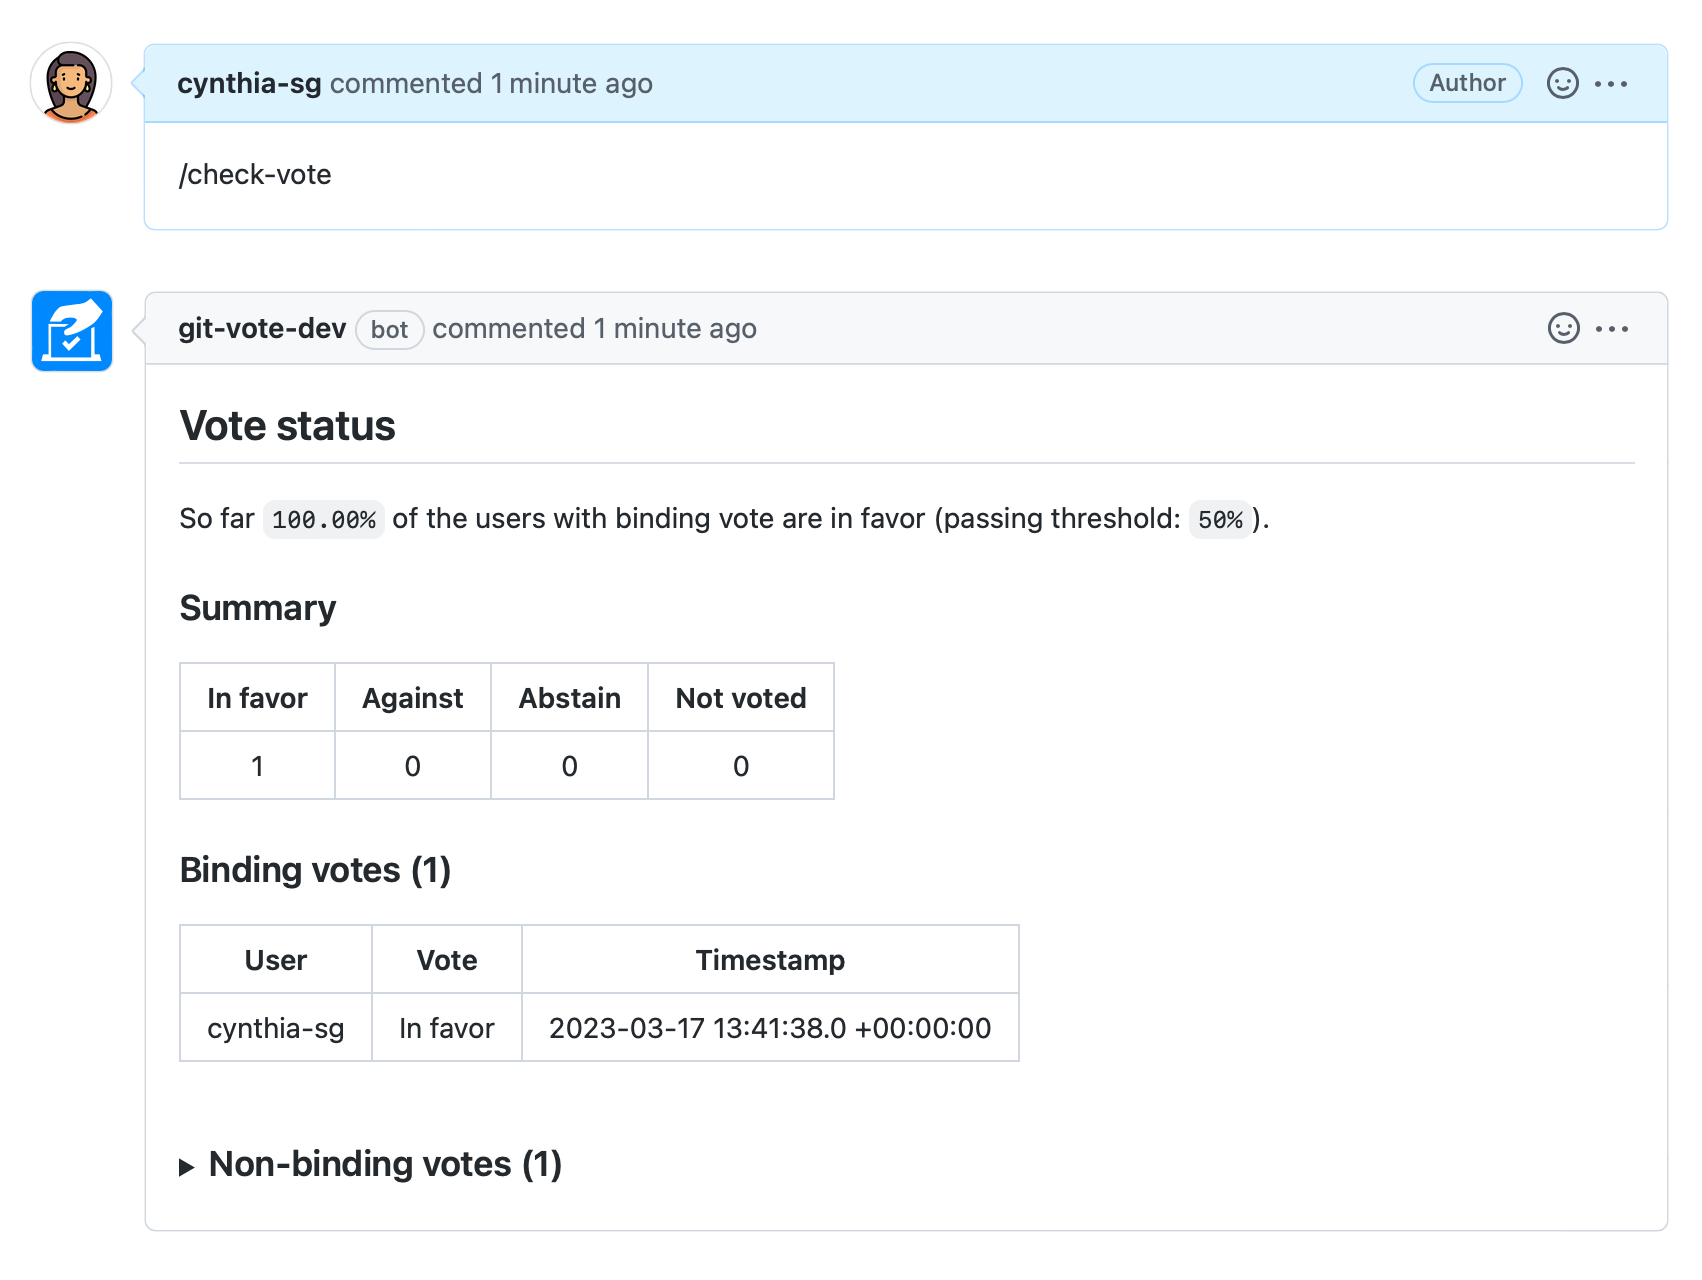
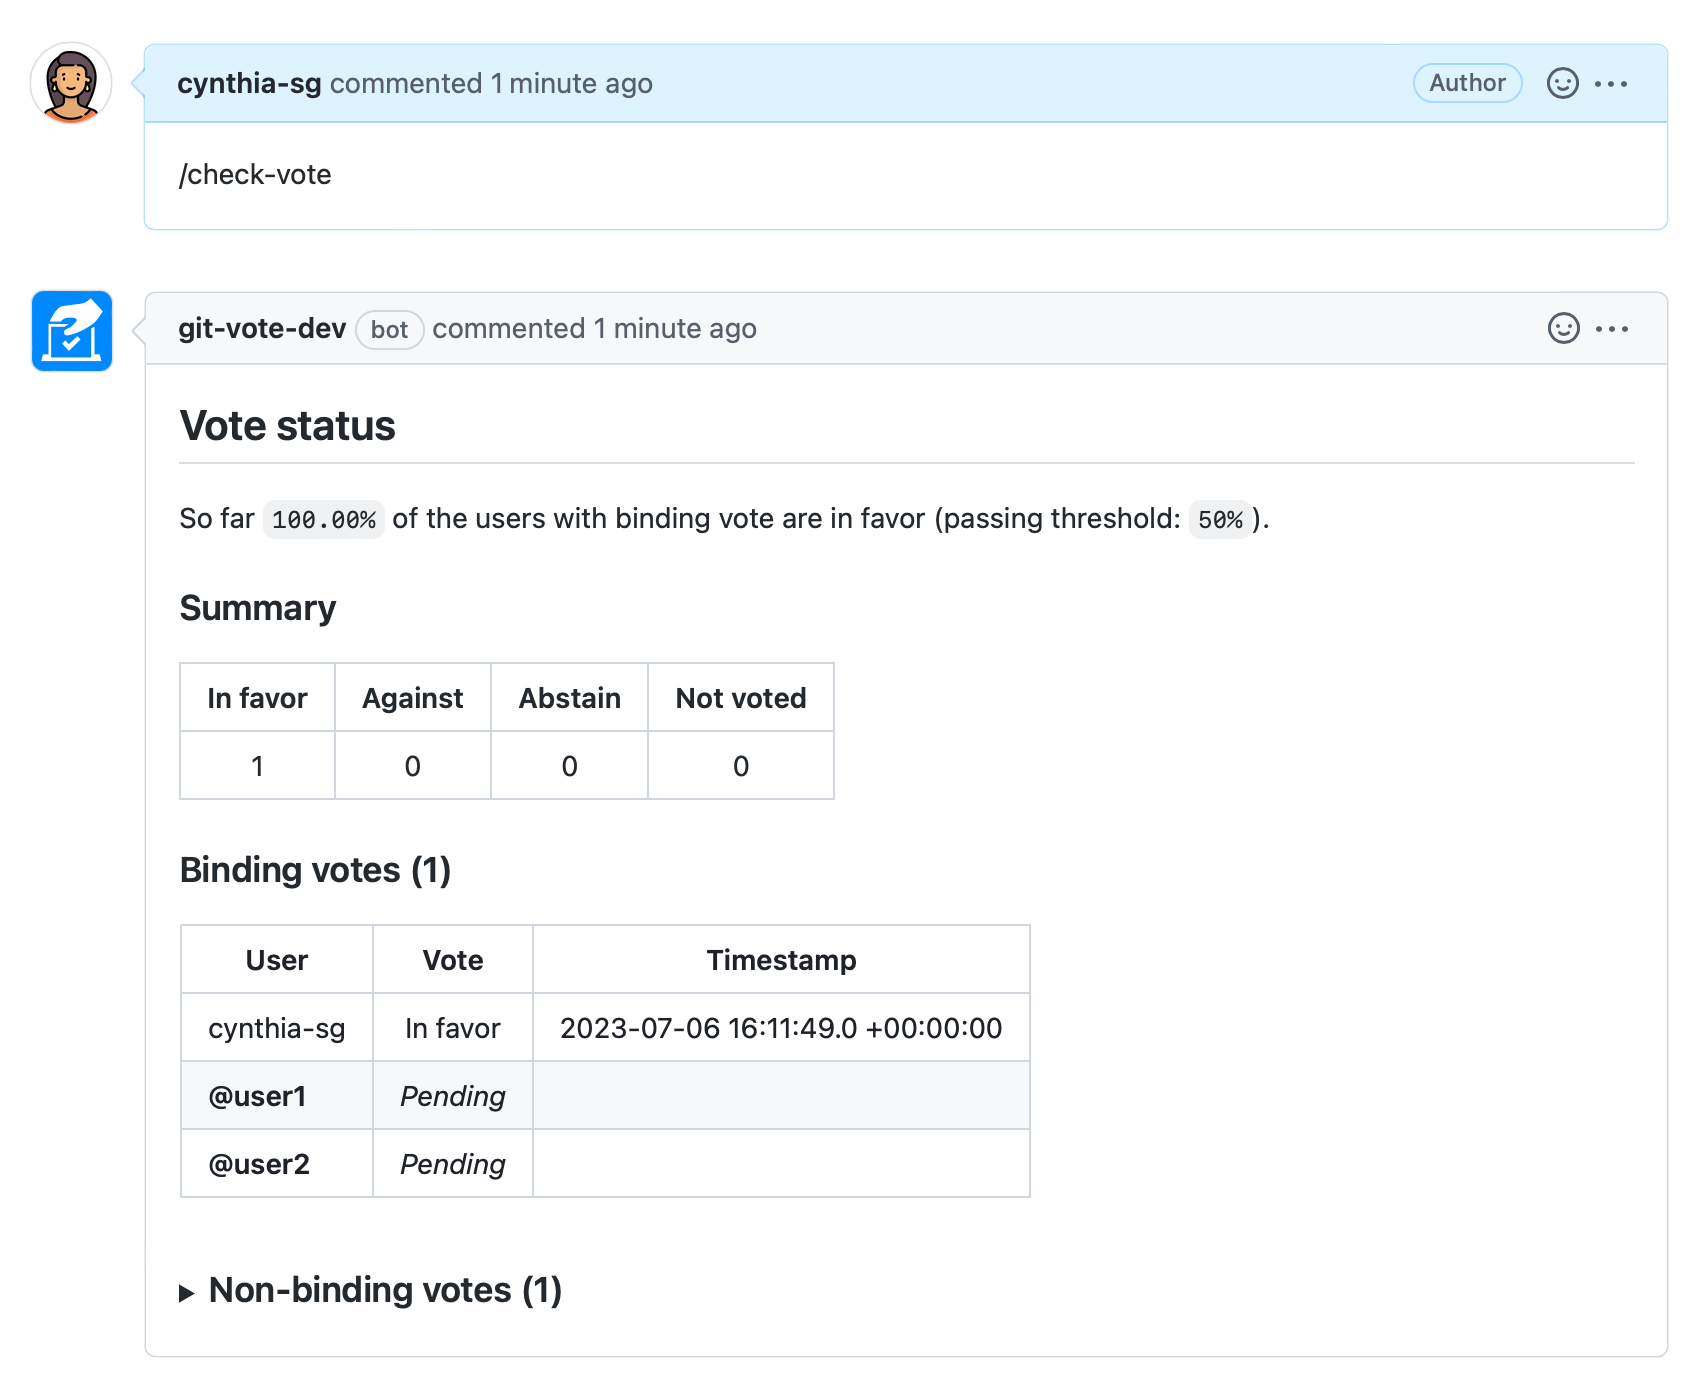
Mention pending voters when checking vote status (#351)
Closes #342
Closes #343

diff --git a/src/results.rs b/src/results.rs
@@ -106,6 +106,7 @@ pub(crate) struct VoteResults {
     pub non_binding: i64,
     pub allowed_voters: i64,
     pub votes: HashMap<UserName, UserVote>,
+    pub pending_voters: Vec<UserName>,
 }
 
 /// User's vote details.
@@ -187,24 +188,25 @@ pub(crate) async fn calculate<'a>(
     if !allowed_voters.is_empty() {
         in_favor_percentage = in_favor as f64 / allowed_voters.len() as f64 * 100.0;
     }
-    let passed = in_favor_percentage >= vote.cfg.pass_threshold;
-    let not_voted = allowed_voters
+    let pending_voters: Vec<UserName> = allowed_voters
         .iter()
         .filter(|user| !votes.contains_key(*user))
-        .count() as i64;
+        .cloned()
+        .collect();
 
     Ok(VoteResults {
-        passed,
+        passed: in_favor_percentage >= vote.cfg.pass_threshold,
         in_favor_percentage,
         pass_threshold: vote.cfg.pass_threshold,
         in_favor,
         against,
         abstain,
-        not_voted,
+        not_voted: pending_voters.len() as i64,
         binding,
         non_binding,
         allowed_voters: allowed_voters.len() as i64,
         votes,
+        pending_voters,
     })
 }
 
@@ -335,6 +337,7 @@ mod tests {
                     )
                 ]),
                 allowed_voters: 1,
+                pending_voters: vec![],
             }
         },
 
@@ -372,6 +375,7 @@ mod tests {
                 non_binding: 0,
                 votes: HashMap::new(),
                 allowed_voters: 1,
+                pending_voters: vec![USER1.to_string()],
             }
         },
 
@@ -455,6 +459,7 @@ mod tests {
                     ),
                 ]),
                 allowed_voters: 4,
+                pending_voters: vec![USER4.to_string()],
             }
         },
 
@@ -525,6 +530,7 @@ mod tests {
                     ),
                 ]),
                 allowed_voters: 4,
+                pending_voters: vec![USER4.to_string()],
             }
         },
     );

diff --git a/src/testutil.rs b/src/testutil.rs
@@ -163,5 +163,6 @@ pub(crate) fn setup_test_vote_results() -> VoteResults {
             },
         )]),
         allowed_voters: 1,
+        pending_voters: vec![],
     }
 }

diff --git a/templates/vote-status.md b/templates/vote-status.md
@@ -8,35 +8,32 @@ So far `{{ "{:.2}"|format(results.in_favor_percentage) }}%` of the users with bi
 | :--------------------: | :-------------------: | :------------------: | :---------------------: |
 | {{ results.in_favor }} | {{ results.against }} | {{ results.abstain}} | {{ results.not_voted }} |
 
-{% if !results.votes.is_empty() %}
+### Binding votes ({{ results.binding }})
 
-  {%- if results.binding > 0 ~%}
-    ### Binding votes ({{ results.binding }})
+| User | Vote  | Timestamp |
+| ---- | :---: | :-------: |
+{%- for (user, vote) in results.votes ~%}
+  {%- if vote.binding ~%}
+    | {{ user }} | {{ vote.vote_option }} | {{ vote.timestamp }} {{ "|" -}}
+  {% endif -%}
+{% endfor -%}
+{%- for user in results.pending_voters ~%}
+  | @{{ user }} | *Pending* | {{ "|" -}}
+{% endfor -%}
+
+{% if results.non_binding > 0 ~%}
+  <details>
+    <summary><h3>Non-binding votes ({{ results.non_binding }})</h3></summary>
+
+    {% let max_non_binding = 300 -%}
+    {% if results.non_binding > max_non_binding %}
+      <i>(displaying only the first {{ max_non_binding }} non-binding votes)</i>
+    {% endif %}
 
     {{~ "| User | Vote  | Timestamp |" }}
     {{~ "| ---- | :---: | :-------: |" }}
-    {%- for (user, vote) in results.votes ~%}
-      {%- if vote.binding ~%}
-        | {{ user }} | {{ vote.vote_option }} | {{ vote.timestamp }} {{ "|" -}}
-      {% endif -%}
-    {% endfor -%}
-  {% endif -%}
-
-  {% if results.non_binding > 0 ~%}
-    <details>
-      <summary><h3>Non-binding votes ({{ results.non_binding }})</h3></summary>
-
-      {% let max_non_binding = 300 -%}
-      {% if results.non_binding > max_non_binding %}
-        <i>(displaying only the first {{ max_non_binding }} non-binding votes)</i>
-      {% endif %}
-
-      {{~ "| User | Vote  | Timestamp |" }}
-      {{~ "| ---- | :---: | :-------: |" }}
-      {%- for (user, vote) in results.votes|non_binding(max_non_binding) ~%}
-        | {{ user }} | {{ vote.vote_option }} | {{ vote.timestamp }} {{ "|" -}}
-      {% endfor ~%}
-    </details>
-  {% endif %}
-
+    {%- for (user, vote) in results.votes|non_binding(max_non_binding) ~%}
+      | {{ user }} | {{ vote.vote_option }} | {{ vote.timestamp }} {{ "|" -}}
+    {% endfor ~%}
+  </details>
 {% endif %}
